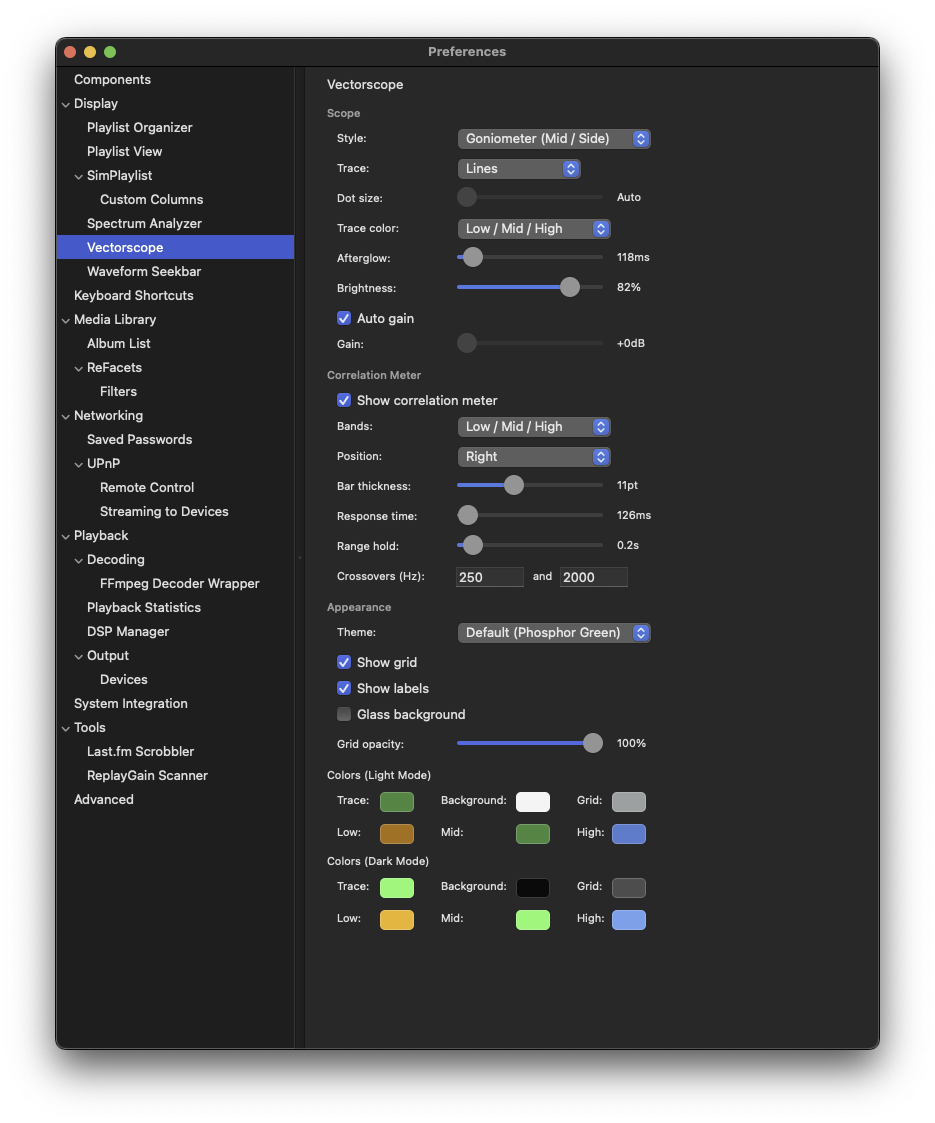
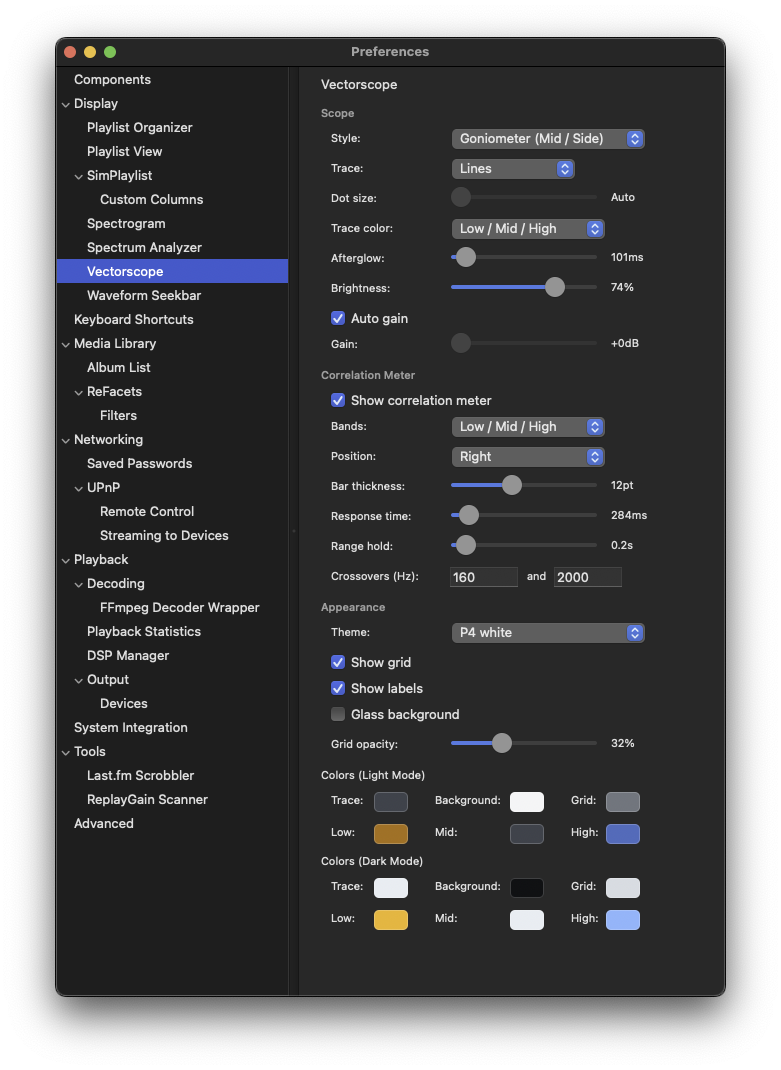
feat(vectorscope): themes matching Spectrum Analyzer, P4 white default
Same names, indices, menu order and trace/background/grid colors as
the Spectrum Analyzer and Waveform Seekbar themes.

- New CRT phosphor themes listed first: P31 green, P3 amber, P4 white,
  P7 blue; their bands borrow the other phosphors (amber, green, blue)
- Default (Phosphor Green) becomes Classic (Green), Blue becomes
  Default (Blue); Amber is replaced by P3 amber
- Theme selector shows the preset matching the current colors instead
  of a stored index, so hand-picked colors read as Custom
- Defaults: P4 white theme, afterglow 101ms, brightness 74%, bar
  thickness 12pt, response time 284ms, low crossover 160 Hz, grid
  opacity 32%
- README: panel crop and new settings screenshot
- docs/vectorscope.md: theme list, settings table brought up to date

diff --git a/extensions/foo_jl_vectorscope_mac/src/Core/VectorscopeThemes.h b/extensions/foo_jl_vectorscope_mac/src/Core/VectorscopeThemes.h
@@ -2,10 +2,12 @@
 //  VectorscopeThemes.h
 //  foo_jl_vectorscope_mac
 //
-//  Curated color presets (same palettes as the Spectrum Analyzer). A theme
-//  stamps the trace, background, grid, and band colors for both light and
-//  dark appearance at once. Index 0 is "Custom" (applying it is a no-op);
-//  real presets start at 1.
+//  Color presets matching the Spectrum Analyzer's themes (same names, colors
+//  and indices). A theme stamps the trace, background, grid, and band colors
+//  for both light and dark appearance at once. Index 0 is "Custom" (applying
+//  it is a no-op); real presets start at 1. The selected theme isn't stored:
+//  it is whichever preset matches the configured colors, so hand-picked
+//  colors read as Custom.
 //
 //  Band colors (low, mid, high) come from each palette's own accents, warm
 //  to cool, and keep clear of red: the correlation meter uses red for
@@ -27,23 +29,21 @@ struct Theme {
 };
 
 // ARGB (0xAARRGGBB). Light variants adapt each palette to a light background.
+// Same names, indices, and trace/background/grid colors as the Spectrum
+// Analyzer and Waveform Seekbar themes.
 static const Theme kThemes[] = {
-    // 0: Custom sentinel — values mirror Default but are never applied.
+    // 0: Custom sentinel - never applied.
     { "Custom",
       0xFF1B8A3A, 0xFFF4F4F4, 0xFF9AA0A0,   0xFF33FF66, 0xFF0A0A0A, 0xFF4D4D4D,
       { 0xFFB86A00, 0xFF1B8A3A, 0xFF2E7DD1 },   { 0xFFFFB000, 0xFF33FF66, 0xFF4DA3F0 } },
 
-    { "Default (Phosphor Green)",
-      0xFF1B8A3A, 0xFFF4F4F4, 0xFF9AA0A0,   0xFF33FF66, 0xFF0A0A0A, 0xFF4D4D4D,
-      { 0xFFB86A00, 0xFF1B8A3A, 0xFF2E7DD1 },   { 0xFFFFB000, 0xFF33FF66, 0xFF4DA3F0 } },
-
-    { "Blue",
+    { "Default (Blue)",
       0xFF2E7DD1, 0xFFF2F2F2, 0xFF808080,   0xFF4DA3F0, 0xFF161616, 0xFF909090,
       { 0xFFB86A00, 0xFF1F8F6B, 0xFF2E7DD1 },   { 0xFFF5A623, 0xFF4DD0A8, 0xFF4DA3F0 } },
 
-    { "Amber",
-      0xFFB86A00, 0xFFF7F3EA, 0xFFB4AA96,   0xFFFFB000, 0xFF0C0A06, 0xFF4D4433,
-      { 0xFFB86A00, 0xFF6B8E12, 0xFF2A8FA8 },   { 0xFFFFB000, 0xFFB5D94A, 0xFF7CCBE0 } },
+    { "Classic (Green)",
+      0xFF1B8A3A, 0xFFF4F4F4, 0xFF9AA0A0,   0xFF33FF66, 0xFF0A0A0A, 0xFF4D4D4D,
+      { 0xFFB86A00, 0xFF1B8A3A, 0xFF2E7DD1 },   { 0xFFFFB000, 0xFF33FF66, 0xFF4DA3F0 } },
 
     { "Nord",
       0xFF5E81AC, 0xFFECEFF4, 0xFFB0B6C0,   0xFF88C0D0, 0xFF2E3440, 0xFF4C566A,
@@ -76,9 +76,32 @@ static const Theme kThemes[] = {
     { "Sunset",
       0xFFE8551A, 0xFFFFF3EC, 0xFFD8B8A0,   0xFFFF6B35, 0xFF1A0F0A, 0xFF4D3326,
       { 0xFFC77700, 0xFFC2399A, 0xFF7C4DDB },   { 0xFFFFB347, 0xFFF472B6, 0xFFA78BFA } },
+
+    // CRT phosphors. Listed first in the menu (kThemeMenuOrder). Their bands
+    // borrow the other phosphors: P3 amber low, P31 green mid, P7 blue high,
+    // with the theme's own colour taking its place.
+    { "P31 green",
+      0xFF1B8A3A, 0xFFF1F5F2, 0xFF5F7A66,   0xFF4CFF7C, 0xFF0C120E, 0xFFB8E6C4,
+      { 0xFFB86A00, 0xFF1B8A3A, 0xFF2D6CC0 },   { 0xFFFFB000, 0xFF4CFF7C, 0xFF6FB7FF } },
+
+    { "P3 amber",
+      0xFFB86A00, 0xFFF7F3EA, 0xFF7D6E55,   0xFFFFB000, 0xFF130F07, 0xFFE8D4AE,
+      { 0xFFB86A00, 0xFF6B8E12, 0xFF2A8FA8 },   { 0xFFFFB000, 0xFFB5D94A, 0xFF7CCBE0 } },
+
+    { "P4 white",
+      0xFF3C434B, 0xFFF4F5F6, 0xFF6E767E,   0xFFE6EDF2, 0xFF0F1113, 0xFFD5DCE2,
+      { 0xFFB86A00, 0xFF3C434B, 0xFF2D6CC0 },   { 0xFFFFB000, 0xFFE6EDF2, 0xFF6FB7FF } },
+
+    { "P7 blue",
+      0xFF2D6CC0, 0xFFF0F4F9, 0xFF64748A,   0xFF6FB7FF, 0xFF0A0E15, 0xFFC4D6EC,
+      { 0xFFB86A00, 0xFF1B8A3A, 0xFF2D6CC0 },   { 0xFFFFB000, 0xFF4CFF7C, 0xFF6FB7FF } },
 };
 
 static const int kThemeCount = (int)(sizeof(kThemes) / sizeof(kThemes[0]));
+static_assert(sizeof(kThemes) / sizeof(kThemes[0]) == 15, "update kThemeMenuOrder");
+
+// Theme menu order: Custom, the phosphors, then the rest.
+static const int kThemeMenuOrder[] = { 0, 11, 12, 13, 14, 1, 2, 3, 4, 5, 6, 7, 8, 9, 10 };
 
 // Write a preset's colors into config. No-op for index 0 (Custom) or invalid.
 inline void applyThemeToConfig(int index) {
@@ -94,6 +117,28 @@ inline void applyThemeToConfig(int index) {
         setConfigInt(kKeyBandColorLight[b], t.bandLight[b]);
         setConfigInt(kKeyBandColorDark[b],  t.bandDark[b]);
     }
+}
+
+// The preset whose colors all match config, or 0 (Custom) if none does.
+inline int themeMatchingConfig() {
+    const auto is = [](const char* key, uint32_t def, uint32_t want) {
+        return (uint32_t)getConfigInt(key, def) == want;
+    };
+    for (int i = 1; i < kThemeCount; ++i) {
+        const Theme& t = kThemes[i];
+        bool match = is(kKeyTraceColorLight, kDefaultTraceColorLight, t.traceLight) &&
+                     is(kKeyBgColorLight,    kDefaultBgColorLight,    t.bgLight) &&
+                     is(kKeyGridColorLight,  kDefaultGridColorLight,  t.gridLight) &&
+                     is(kKeyTraceColorDark,  kDefaultTraceColorDark,  t.traceDark) &&
+                     is(kKeyBgColorDark,     kDefaultBgColorDark,     t.bgDark) &&
+                     is(kKeyGridColorDark,   kDefaultGridColorDark,   t.gridDark);
+        for (int b = 0; match && b < kBandCount; ++b) {
+            match = is(kKeyBandColorLight[b], kDefaultBandColorLight[b], t.bandLight[b]) &&
+                    is(kKeyBandColorDark[b],  kDefaultBandColorDark[b],  t.bandDark[b]);
+        }
+        if (match) return i;
+    }
+    return 0;
 }
 
 } // namespace vectorscope_config

diff --git a/extensions/foo_jl_vectorscope_mac/src/Core/VectorscopeConfig.h b/extensions/foo_jl_vectorscope_mac/src/Core/VectorscopeConfig.h
@@ -49,25 +49,25 @@ constexpr int      kDefaultTraceColorMode = TraceColorBands;
 constexpr int      kDefaultDotSize        = 0;       // Dot diameter in tenths of a point; 0 = auto
 constexpr int      kMinDotSize            = 10;
 constexpr int      kMaxDotSize            = 80;
-constexpr int      kDefaultPersistenceMs  = 118;     // Afterglow time constant
+constexpr int      kDefaultPersistenceMs  = 101;     // Afterglow time constant
 constexpr int      kMinPersistenceMs      = 20;
 constexpr int      kMaxPersistenceMs      = 2000;
-constexpr int      kDefaultBrightness     = 82;      // Trace brightness 0-100
+constexpr int      kDefaultBrightness     = 74;      // Trace brightness 0-100
 constexpr bool     kDefaultAutoGain       = true;    // Scale quiet material up to fill the scope
 constexpr int      kDefaultGainDb         = 0;       // Fixed gain when auto gain is off
 constexpr int      kMaxGainDb             = 36;
 constexpr bool     kDefaultShowCorrelation = true;
 constexpr int      kDefaultCorrelationMode = CorrelationBands;
 constexpr int      kDefaultMeterPosition  = 4;       // scope_layout::MeterRight
-constexpr int      kDefaultBarThickness   = 11;      // Correlation bar thickness, points
+constexpr int      kDefaultBarThickness   = 12;      // Correlation bar thickness, points
 constexpr int      kMinBarThickness       = 4;
 constexpr int      kMaxBarThickness       = 24;
-constexpr int      kDefaultIntegrationMs  = 300;     // Correlation time window
+constexpr int      kDefaultIntegrationMs  = 284;     // Correlation time window
 constexpr int      kMinIntegrationMs      = 100;
 constexpr int      kMaxIntegrationMs      = 3000;
 constexpr int      kDefaultRangeHoldMs    = 200;     // How long the meter's recent range is held; 0 = off
 constexpr int      kMaxRangeHoldMs        = 5000;
-constexpr int      kDefaultLowHz          = 250;     // Low / mid crossover
+constexpr int      kDefaultLowHz          = 160;     // Low / mid crossover
 constexpr int      kMinLowHz              = 40;
 constexpr int      kMaxLowHz              = 1000;
 constexpr int      kDefaultHighHz         = 2000;    // Mid / high crossover
@@ -75,23 +75,22 @@ constexpr int      kMinHighHz             = 1000;
 constexpr int      kMaxHighHz             = 12000;
 constexpr bool     kDefaultShowGrid       = true;    // Diamond, M/S axes, L/R diagonals
 constexpr bool     kDefaultShowLabels     = true;    // L / R / M / S and correlation scale
-constexpr int      kDefaultGridOpacity    = 100;     // Grid line opacity 0-100
-constexpr int      kDefaultTheme          = 1;       // Color preset index (0 = Custom, 1 = Default)
+constexpr int      kDefaultGridOpacity    = 32;      // Grid line opacity 0-100
 constexpr bool     kDefaultGlassBackground = false;
 
-// Default colors (ARGB)
-constexpr uint32_t kDefaultTraceColorLight = 0xFF1B8A3A;  // Green
-constexpr uint32_t kDefaultBgColorLight    = 0xFFF4F4F4;  // Light gray
-constexpr uint32_t kDefaultGridColorLight  = 0xFF9AA0A0;  // Neutral gray
-constexpr uint32_t kDefaultTraceColorDark  = 0xFF33FF66;  // Phosphor green
-constexpr uint32_t kDefaultBgColorDark     = 0xFF0A0A0A;  // Near-black
-constexpr uint32_t kDefaultGridColorDark   = 0xFF4D4D4D;  // Dark gray
+// Default colors (ARGB): the P4 white theme
+constexpr uint32_t kDefaultTraceColorLight = 0xFF3C434B;  // Slate
+constexpr uint32_t kDefaultBgColorLight    = 0xFFF4F5F6;  // Off-white
+constexpr uint32_t kDefaultGridColorLight  = 0xFF6E767E;  // Gray
+constexpr uint32_t kDefaultTraceColorDark  = 0xFFE6EDF2;  // P4 phosphor white
+constexpr uint32_t kDefaultBgColorDark     = 0xFF0F1113;  // Near-black
+constexpr uint32_t kDefaultGridColorDark   = 0xFFD5DCE2;  // Pale gray
 
-// Band colours for the band-coloured trace: low, mid, high (the Default
+// Band colours for the band-coloured trace: low, mid, high (the P4 white
 // theme's). Red is left to the correlation meter's out-of-phase reading.
 constexpr int      kBandCount = 3;
-constexpr uint32_t kDefaultBandColorLight[kBandCount] = { 0xFFB86A00, 0xFF1B8A3A, 0xFF2E7DD1 };  // Amber, green, blue
-constexpr uint32_t kDefaultBandColorDark[kBandCount]  = { 0xFFFFB000, 0xFF33FF66, 0xFF4DA3F0 };
+constexpr uint32_t kDefaultBandColorLight[kBandCount] = { 0xFFB86A00, 0xFF3C434B, 0xFF2D6CC0 };  // Amber, white, blue
+constexpr uint32_t kDefaultBandColorDark[kBandCount]  = { 0xFFFFB000, 0xFFE6EDF2, 0xFF6FB7FF };
 
 // --- Config keys (stored under kConfigPrefix) ---
 static const char* const kConfigPrefix        = "foo_jl_vectorscope.";
@@ -114,7 +113,6 @@ static const char* const kKeyHighHz           = "xover_high_hz";
 static const char* const kKeyShowGrid         = "show_grid";
 static const char* const kKeyShowLabels       = "show_labels";
 static const char* const kKeyGridOpacity      = "grid_opacity";
-static const char* const kKeyTheme            = "color_theme";
 static const char* const kKeyGlassBackground  = "glass_background";
 static const char* const kKeyTraceColorLight  = "trace_color_light";
 static const char* const kKeyBgColorLight     = "bg_color_light";

diff --git a/extensions/foo_jl_vectorscope_mac/src/UI/VectorscopePreferences.mm b/extensions/foo_jl_vectorscope_mac/src/UI/VectorscopePreferences.mm
@@ -237,8 +237,10 @@
 
     [self.view addSubview:[self label:@"Theme:" at:NSMakePoint(labelX + 10, y + 3)]];
     _themePopup = [[NSPopUpButton alloc] initWithFrame:NSMakeRect(controlX, y, 200, 25)];
-    for (int i = 0; i < kThemeCount; ++i) {
-        [_themePopup addItemWithTitle:[NSString stringWithUTF8String:kThemes[i].name]];
+    // Item tags hold the theme index; the menu lists the phosphors first.
+    for (int index : kThemeMenuOrder) {
+        [_themePopup addItemWithTitle:[NSString stringWithUTF8String:kThemes[index].name]];
+        _themePopup.lastItem.tag = index;
     }
     _themePopup.target = self; _themePopup.action = @selector(themeChanged:);
     _themePopup.toolTip = @"Apply a color preset to trace, background, grid, and band colors";
@@ -415,10 +417,6 @@
     _labelsCheckbox.state = getConfigBool(kKeyShowLabels, kDefaultShowLabels) ? NSControlStateValueOn : NSControlStateValueOff;
     _glassCheckbox.state = getConfigBool(kKeyGlassBackground, kDefaultGlassBackground) ? NSControlStateValueOn : NSControlStateValueOff;
 
-    int theme = (int)getConfigInt(kKeyTheme, kDefaultTheme);
-    if (theme < 0 || theme >= kThemeCount) theme = 0;
-    [_themePopup selectItemAtIndex:theme];
-
     [self reloadColorWells];
     [self updateEnabledStates];
 }
@@ -435,6 +433,7 @@
         _bandColorLightWells[b].color = [self colorFromARGB:(uint32_t)getConfigInt(kKeyBandColorLight[b], kDefaultBandColorLight[b])];
         _bandColorDarkWells[b].color  = [self colorFromARGB:(uint32_t)getConfigInt(kKeyBandColorDark[b], kDefaultBandColorDark[b])];
     }
+    [_themePopup selectItemWithTag:themeMatchingConfig()];
 }
 
 // Grey out controls that have no effect in the current setup.
@@ -601,12 +600,8 @@
 
 - (void)themeChanged:(id)sender {
     using namespace vectorscope_config;
-    NSInteger idx = _themePopup.indexOfSelectedItem;
-    setConfigInt(kKeyTheme, idx);
-    if (idx > 0) {
-        applyThemeToConfig((int)idx);
-        [self reloadColorWells];
-    }
+    applyThemeToConfig((int)_themePopup.selectedTag);   // no-op for Custom
+    [self reloadColorWells];
     [self notifyChanged];
 }
 
@@ -625,9 +620,7 @@
     else if (sender == _traceColorDarkWell)  setConfigInt(kKeyTraceColorDark, [self argbFromColor:_traceColorDarkWell.color]);
     else if (sender == _bgColorDarkWell)     setConfigInt(kKeyBgColorDark, [self argbFromColor:_bgColorDarkWell.color]);
     else if (sender == _gridColorDarkWell)   setConfigInt(kKeyGridColorDark, [self argbFromColor:_gridColorDarkWell.color]);
-    // A manual color edit means the palette no longer matches a preset.
-    setConfigInt(kKeyTheme, 0);
-    [_themePopup selectItemAtIndex:0];
+    [_themePopup selectItemWithTag:themeMatchingConfig()];
     [self notifyChanged];
 }
 
@@ -637,9 +630,7 @@
         if (sender == _bandColorLightWells[b])     setConfigInt(kKeyBandColorLight[b], [self argbFromColor:_bandColorLightWells[b].color]);
         else if (sender == _bandColorDarkWells[b]) setConfigInt(kKeyBandColorDark[b], [self argbFromColor:_bandColorDarkWells[b].color]);
     }
-    // A manual color edit means the palette no longer matches a preset.
-    setConfigInt(kKeyTheme, 0);
-    [_themePopup selectItemAtIndex:0];
+    [_themePopup selectItemWithTag:themeMatchingConfig()];
     [self notifyChanged];
 }
 

diff --git a/docs/vectorscope.md b/docs/vectorscope.md
@@ -78,7 +78,7 @@ Full-scale outline (diamond, or square in the Lissajous style), dashed level gui
 
 ### Color Themes
 
-Eleven presets stamp trace, background, grid, and band colors for both light and dark appearance at once: Default (Phosphor Green), Blue, Amber, Nord, Dracula, Gruvbox, Solarized, Tokyo Night, Catppuccin, Monokai, Sunset. Editing any color well switches the theme selector to Custom.
+Fourteen presets stamp trace, background, grid, and band colors for both light and dark appearance at once. They share names and trace/background/grid colors with the Spectrum Analyzer and Waveform Seekbar themes: the CRT phosphors P31 green, P3 amber, P4 white, and P7 blue (listed first), then Default (Blue), Classic (Green), Nord, Dracula, Gruvbox, Solarized, Tokyo Night, Catppuccin, Monokai, Sunset. The phosphor themes take their band colors from the other phosphors (amber low, green mid, blue high). The selector shows whichever preset matches the current colors, so editing any color well switches it to Custom.
 
 ### Glass Background
 
@@ -101,9 +101,9 @@ Access settings via **Preferences > Display > Vectorscope**, or right-click the 
 | Style | What the scope plots | Goniometer (Mid / Side), Lissajous (Left / Right) | Goniometer |
 | Trace | How samples are drawn | Lines, Dots | Lines |
 | Dot size | Diameter of each dot in Dots mode | Auto, 1.0-8.0 pt | Auto |
-| Trace color | One color, or one per frequency band | Single, Low / Mid / High | Single |
-| Afterglow | How long the trace takes to fade | 20-2000 ms | 300 ms |
-| Brightness | Trace brightness | 0-100 | 60 |
+| Trace color | One color, or one per frequency band | Single, Low / Mid / High | Low / Mid / High |
+| Afterglow | How long the trace takes to fade | 20-2000 ms | 101 ms |
+| Brightness | Trace brightness | 0-100 | 74 |
 | Auto gain | Scale the picture to the track's level | On / Off | On |
 | Gain | Fixed gain used when auto gain is off | 0 to +36 dB | 0 dB |
 
@@ -112,24 +112,24 @@ Access settings via **Preferences > Display > Vectorscope**, or right-click the 
 | Setting | Description | Range | Default |
 |---------|-------------|-------|---------|
 | Show correlation meter | Bar(s) beside the scope | On / Off | On |
-| Bands | One broadband bar or three band bars | Single, Low / Mid / High | Single |
-| Position | Side of the scope the meter sits on; Auto picks below or right, whichever leaves the larger scope | Auto, Bottom, Top, Left, Right | Auto |
-| Bar thickness | Thickness of each bar | 4-24 pt | 6 pt |
-| Response time | Window the reading is averaged over | 100-3000 ms | 500 ms |
+| Bands | One broadband bar or three band bars | Single, Low / Mid / High | Low / Mid / High |
+| Position | Side of the scope the meter sits on; Auto picks below or right, whichever leaves the larger scope | Auto, Bottom, Top, Left, Right | Right |
+| Bar thickness | Thickness of each bar | 4-24 pt | 12 pt |
+| Response time | Window the reading is averaged over | 100-3000 ms | 284 ms |
 | Range hold | How long each end of the recent-range band is held | Off, 0.1-5.0 s | 0.2 s |
-| Crossovers (Hz) | Low / mid and mid / high splits, for the band meters and the band-colored trace | 40-1000 and 1000-12000 | 250 and 2000 |
+| Crossovers (Hz) | Low / mid and mid / high splits, for the band meters and the band-colored trace | 40-1000 and 1000-12000 | 160 and 2000 |
 
 ### Appearance
 
 | Setting | Description | Default |
 |---------|-------------|---------|
-| Theme | Color preset (Custom + 11 presets) | Default (Phosphor Green) |
+| Theme | Color preset (Custom + 14 presets) | P4 white |
 | Show grid | Outline, level guides, and axes | On |
 | Show labels | L / R / M / S and the correlation scale and readouts | On |
 | Glass background | Translucent blur instead of solid color | Off |
-| Grid opacity | Grid line and label opacity (0% hides) | 40% |
-| Colors (Light / Dark) | Trace, background, and grid color per appearance | Green on light gray / phosphor green on near-black |
-| Band colors (Light / Dark) | Low, mid, and high color of the band-colored trace; set by the theme | Amber, green, blue |
+| Grid opacity | Grid line and label opacity (0% hides) | 32% |
+| Colors (Light / Dark) | Trace, background, and grid color per appearance | Slate on off-white / P4 white on near-black, pale gray grid |
+| Band colors (Light / Dark) | Low, mid, and high color of the band-colored trace; set by the theme | Amber, white, blue |
 
 ## Layout Editor
 

diff --git a/README.md b/README.md
@@ -104,7 +104,7 @@ Stereo vectorscope (goniometer) panel with an oscilloscope-style afterglow and a
 
 | Overview | Settings |
 |----------|----------|
-| ![Vectorscope in a layout](docs/images/vectorscope-overview.png) | ![Vectorscope Settings](docs/images/vectorscope-settings.png) |
+| ![Vectorscope with band colors and the three-band correlation meter](docs/images/vectorscope-scope.png) | ![Vectorscope Settings](docs/images/vectorscope-settings.png) |
 
 **Features:**
 - Goniometer display (mono is a vertical line, out-of-phase material spreads horizontally) or Lissajous display (left against right)
